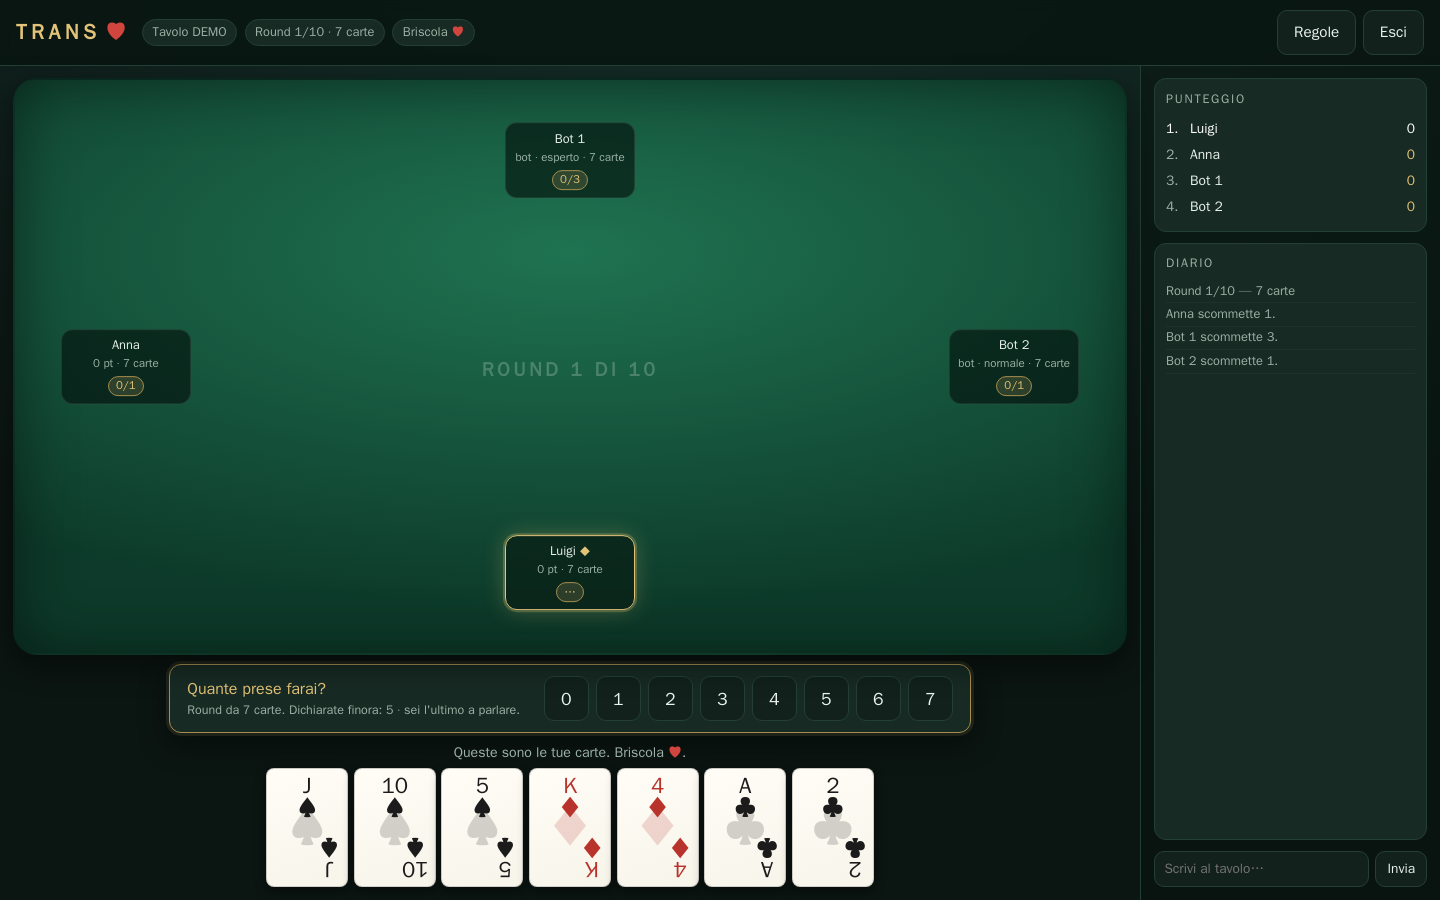
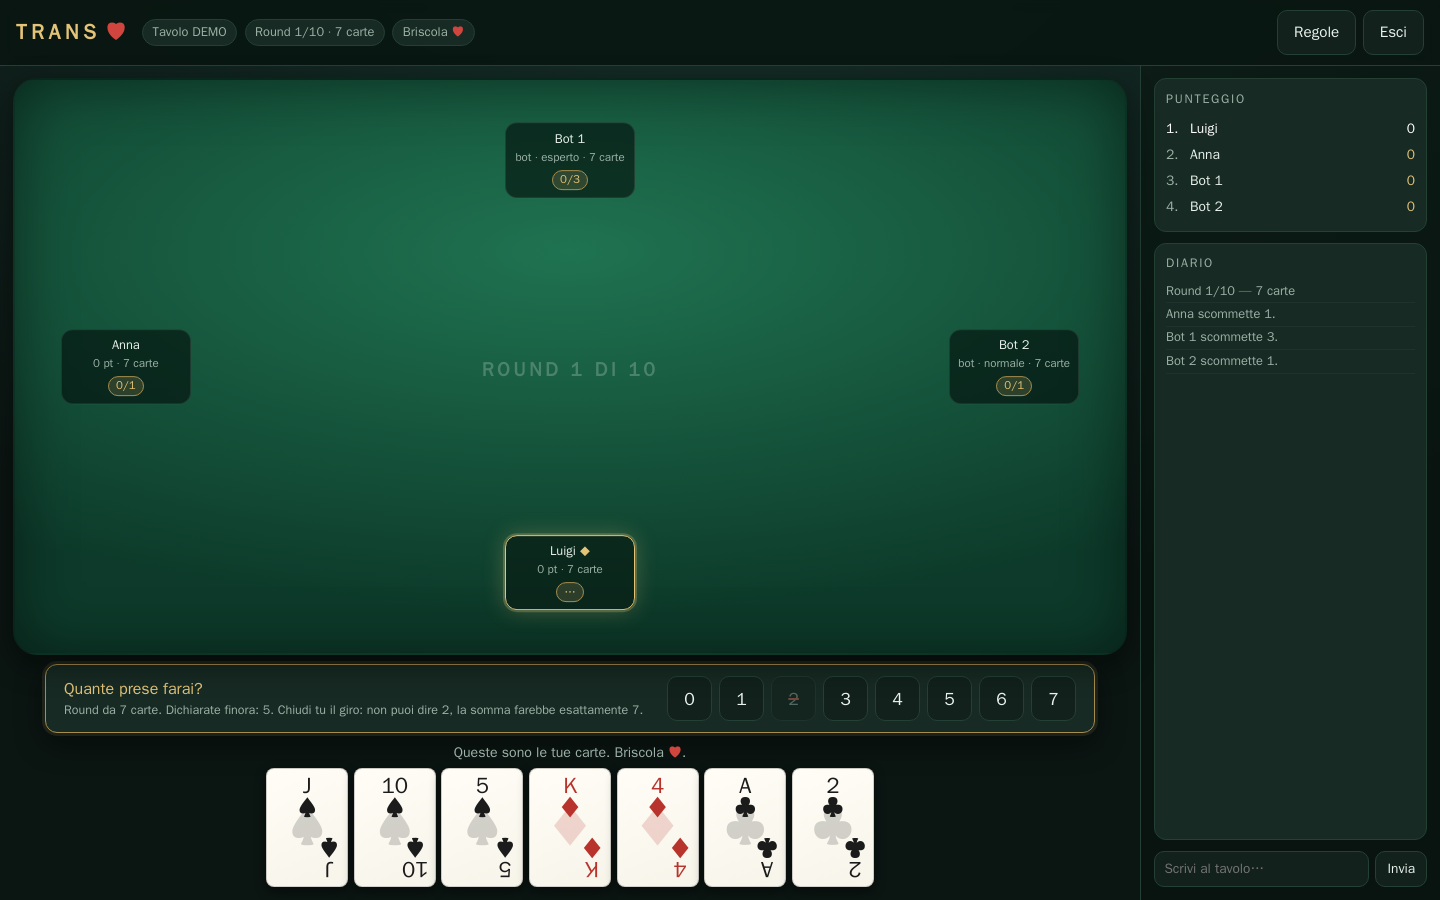
Regola dell'impiccato: il mazziere non puo' pareggiare il conto
La somma delle dichiarazioni non puo' fare esattamente il numero di prese in
palio, quindi chi chiude il giro perde il numero che pareggerebbe. In cinque,
in un round da 5 carte, se i primi quattro dicono 1 il mazziere non puo' dire 1.
Cosi' almeno un giocatore sbaglia per forza a ogni round.

Il vincolo c'era gia' come opzione spenta: ora e' il comportamento normale.
I bot ci passano attraverso _nearest_legal, che prima mancava sul round BUIO.

Nella UI il numero vietato resta visibile barrato, con scritto il perche':
farlo sparire e basta lasciava il giocatore a chiedersi dove fosse finito.

Le medie dei bot nel README sono rifatte con la regola attiva: la percentuale
di dichiarazioni centrate cala perche' il tetto teorico in quattro e' 75%.

Changed region(s): [[0.0312, 0.7467, 0.4375, 0.8089], [0.6562, 0.7467, 0.6875, 0.8089]]

diff --git a/web/app.js b/web/app.js
@@ -410,19 +410,33 @@
         : "Quante prese farai?";
       const declared = g.players.reduce((s, p) => s + (p.bid || 0), 0);
       const missing = g.players.filter((p) => p.bid === null).length - 1;
-      $("bidSub").textContent = g.round.blind
+      const banned = g.forbidden_bid;
+      const context = g.round.blind
         ? `${g.round.cards} carte coperte. Dichiarate finora: ${declared}.`
-        : `Round da ${g.round.cards} carte. Dichiarate finora: ${declared}` +
-          (missing > 0 ? ` · dopo di te mancano ${missing} giocatori.` : " · sei l'ultimo a parlare.");
+        : `Round da ${g.round.cards} carte. Dichiarate finora: ${declared}.`;
+      $("bidSub").textContent = banned === null || banned === undefined
+        ? context + (missing > 0 ? ` Dopo di te mancano ${missing} giocatori.` : "")
+        : `${context} Chiudi tu il giro: non puoi dire ${banned}, la somma farebbe` +
+          ` esattamente ${g.round.cards}.`;
+
+      // Il numero vietato resta visibile, barrato: sparire e basta confonde.
+      const legal = new Set(g.legal_bids);
       const grid = $("bidGrid");
       grid.innerHTML = "";
-      g.legal_bids.forEach((value) => {
+      for (let value = 0; value <= g.round.cards; value++) {
         const btn = document.createElement("button");
         btn.type = "button";
         btn.textContent = value;
-        btn.onclick = () => send({ type: "bid", value });
+        if (legal.has(value)) {
+          btn.onclick = () => send({ type: "bid", value });
+        } else {
+          btn.disabled = true;
+          btn.className = "banned";
+          btn.title = `Con ${value} la somma delle dichiarazioni farebbe esattamente ` +
+                      `${g.round.cards}: non e' permesso.`;
+        }
         grid.appendChild(btn);
-      });
+      }
     }
 
     // Fine round

diff --git a/web/index.html b/web/index.html
@@ -157,7 +157,11 @@
       <p>Chi esce sceglie il seme. <b>Sei obbligato a rispondere a quel seme</b> se ce l'hai; se non ce l'hai giochi quello che vuoi, briscola compresa. Vince la briscola più alta, altrimenti la carta più alta del seme di uscita. Chi prende esce nella presa successiva.</p>
 
       <h3>La scommessa</h3>
-      <p>Prima di giocare, ognuno dichiara quante prese farà.</p>
+      <p>Prima di giocare, ognuno dichiara quante prese farà, partendo da sinistra del mazziere.</p>
+      <p><b>L'ultimo a parlare è il mazziere, e non può pareggiare il conto:</b> la somma delle
+      dichiarazioni non può fare esattamente il numero di prese in palio. In cinque, con un round
+      da 5 carte, se i primi quattro dicono 1 a testa il mazziere non può dire 1. Così almeno
+      un giocatore sbaglia per forza.</p>
       <ul>
         <li><b>Dichiarazione centrata:</b> 10 punti + 5 per ogni presa dichiarata. Dici 0 e fai 0 → <b>10</b>. Dici 1 e fai 1 → <b>15</b>. Dici 2 e fai 2 → <b>20</b>, e così via.</li>
         <li><b>Dichiarazione sbagliata:</b> 1 solo punto per ogni presa fatta.</li>

diff --git a/web/style.css b/web/style.css
@@ -375,8 +375,13 @@ input:focus { outline: 2px solid var(--gold-dim); outline-offset: 1px; }
   background: var(--bg-soft); color: var(--ink);
   transition: transform .1s ease, border-color .15s, color .15s;
 }
-.bid-grid button:hover {
+.bid-grid button:hover:not(:disabled) {
   border-color: var(--gold); color: var(--gold); transform: translateY(-2px);
+}
+.bid-grid button.banned {
+  color: var(--ink-dim); opacity: .45; cursor: not-allowed;
+  text-decoration: line-through; text-decoration-color: var(--bad);
+  text-decoration-thickness: 2px;
 }
 
 .result-table { width: 100%; border-collapse: collapse; margin: .6rem 0 1rem; font-size: .9rem; }

diff --git a/trans/engine.py b/trans/engine.py
@@ -54,7 +54,7 @@ class Game:
         mode: GameMode = GameMode.FAST,
         seed: int | None = None,
         dealer: int = 0,
-        forbid_exact_total: bool = False,
+        forbid_exact_total: bool = True,
     ) -> None:
         if not MIN_PLAYERS <= len(players) <= MAX_PLAYERS:
             raise ValueError(f"servono da {MIN_PLAYERS} a {MAX_PLAYERS} giocatori")
@@ -68,6 +68,8 @@ class Game:
         self.schedule: list[RoundSpec] = build_schedule(mode)
         self.rng = random.Random(seed)
         self.seed = seed
+        # Regola dell'impiccato: l'ultimo a parlare non puo' pareggiare il conto,
+        # cosi' almeno un giocatore sbaglia per forza la dichiarazione.
         self.forbid_exact_total = forbid_exact_total
 
         self.round_index = 0
@@ -143,14 +145,23 @@ class Game:
     def legal_bids(self, player_index: int) -> list[int]:
         if self.phase is not Phase.BIDDING or player_index != self.turn:
             return []
-        options = list(range(self.spec.cards + 1))
-        if self.forbid_exact_total and self._is_last_bidder(player_index):
-            declared = sum(p.bid for p in self.players if p.bid is not None)
-            forbidden = self.spec.cards - declared
-            options = [b for b in options if b != forbidden]
-        return options
+        forbidden = self.forbidden_bid(player_index)
+        return [b for b in range(self.spec.cards + 1) if b != forbidden]
+
+    def forbidden_bid(self, player_index: int) -> int | None:
+        """La dichiarazione vietata all'ultimo a parlare, se ce n'e' una.
+
+        La somma delle dichiarazioni non puo' fare esattamente il numero di
+        prese in palio: chi chiude il giro deve sbilanciare il conto.
+        """
+        if not self.forbid_exact_total or not self._is_last_bidder(player_index):
+            return None
+        declared = sum(p.bid for p in self.players if p.bid is not None)
+        forbidden = self.spec.cards - declared
+        return forbidden if 0 <= forbidden <= self.spec.cards else None
 
     def _is_last_bidder(self, player_index: int) -> bool:
+        """Si parla da sinistra del mazziere, quindi il mazziere chiude."""
         return player_index == self.dealer
 
     def place_bid(self, player_id: str, value: int) -> None:
@@ -159,6 +170,11 @@ class Game:
             raise IllegalMove("non e' il momento di scommettere")
         if idx != self.turn:
             raise IllegalMove("non e' il tuo turno di scommettere")
+        if value == self.forbidden_bid(idx):
+            raise IllegalMove(
+                f"chiudi tu il giro: con {value} la somma farebbe esattamente "
+                f"{self.spec.cards}, e non e' permesso"
+            )
         if value not in self.legal_bids(idx):
             raise IllegalMove(f"scommessa non valida: {value}")
 
@@ -303,11 +319,13 @@ class Game:
         hand: list[str] = []
         legal_cards: list[str] = []
         legal_bids: list[int] = []
+        forbidden_bid: int | None = None
         if viewer is not None:
             if self.hand_visible_to_owner():
                 hand = [c.code for c in sort_hand(self.players[viewer].hand)]
             legal_cards = [c.code for c in self.legal_cards(viewer)]
             legal_bids = self.legal_bids(viewer)
+            forbidden_bid = self.forbidden_bid(viewer)
 
         return {
             "phase": self.phase.value,
@@ -329,6 +347,7 @@ class Game:
             "hand_hidden": viewer is not None and not self.hand_visible_to_owner(),
             "legal_cards": legal_cards,
             "legal_bids": legal_bids,
+            "forbidden_bid": forbidden_bid,
             "trick": [{"player": i, "card": c.code} for i, c in self.current_trick],
             "lead_suit": self.lead_suit.value if self.lead_suit else None,
             "played": [c.code for c in self.played_cards],

diff --git a/tests/test_engine.py b/tests/test_engine.py
@@ -87,15 +87,67 @@ def test_play_is_blocked_until_everyone_has_bid():
     assert game.current_actor() == 1
 
 
-def test_optional_hook_rule_forbids_the_bid_that_makes_the_total_exact():
-    game = make_game(n=3, forbid_exact_total=True)
-    bid_all(game, [3, 2])  # p1 e p2, restano 2 prese
-    assert game.current_actor() == 0  # il mazziere chiude
+def test_the_last_bidder_cannot_make_the_total_exact():
+    game = make_game(n=3)
+    bid_all(game, [3, 2])  # p1 e p2, restano 2 prese sulle 7
+    assert game.current_actor() == 0  # il mazziere chiude il giro
+    assert game.forbidden_bid(0) == 2
     assert 2 not in game.legal_bids(0)
-    with pytest.raises(IllegalMove):
+    with pytest.raises(IllegalMove, match="somma"):
         game.place_bid("p0", 2)
     game.place_bid("p0", 1)
     assert game.phase is Phase.PLAYING
+
+
+def test_five_players_one_trick_each_leaves_the_last_one_stuck():
+    """Il caso raccontato dall'utente: in cinque, con un round da 5 carte."""
+    game = make_game(n=5)
+    while game.spec.cards != 5:
+        finish_round_with_bots(game)
+        game.advance_round()
+    bid_all(game, [1, 1, 1, 1])  # i primi quattro dicono 1: siamo a 4 su 5
+    assert game.forbidden_bid(game.dealer) == 1
+    assert game.legal_bids(game.dealer) == [0, 2, 3, 4, 5]
+    with pytest.raises(IllegalMove):
+        game.place_bid(game.players[game.dealer].id, 1)
+
+
+def test_the_rule_binds_only_whoever_speaks_last():
+    game = make_game(n=4)
+    for i in range(4):
+        # il mazziere e' p0, quindi parla per ultimo
+        assert (game.forbidden_bid(i) is not None) == (i == game.dealer)
+
+
+def test_no_forbidden_bid_when_the_total_is_already_impossible():
+    game = make_game(n=3)
+    bid_all(game, [7, 3])  # gia' 10 dichiarate su 7: nessun numero pareggia
+    assert game.forbidden_bid(0) is None
+    assert game.legal_bids(0) == [0, 1, 2, 3, 4, 5, 6, 7]
+
+
+def test_the_declared_total_never_matches_the_tricks_in_play():
+    """Vale in tutti i round dichiarati, buio compreso."""
+    game = make_game(n=4, mode=GameMode.LONG, seed=3)
+    checked = 0
+    while not game.is_over:
+        if game.phase is Phase.ROUND_OVER:
+            game.advance_round()
+            continue
+        spec = game.spec
+        finish_round_with_bots(game)
+        if spec.has_bidding:
+            assert sum(p.bid for p in game.players) != spec.cards
+            checked += 1
+    assert checked == 18  # 20 round meno i due A PERDERE
+
+
+def test_the_rule_can_be_switched_off():
+    game = make_game(n=3, forbid_exact_total=False)
+    bid_all(game, [3, 2])
+    assert game.forbidden_bid(0) is None
+    game.place_bid("p0", 2)
+    assert sum(p.bid for p in game.players) == 7
 
 
 # ------------------------------------------------------------------- gioco

diff --git a/trans/bots.py b/trans/bots.py
@@ -110,6 +110,18 @@ def estimate_tricks(
     return total / samples
 
 
+def _nearest_legal(game: Game, player_index: int, wanted: float) -> int:
+    """La dichiarazione legale piu' vicina a quella che il bot vorrebbe fare.
+
+    Serve soprattutto all'ultimo a parlare, a cui la regola dell'impiccato
+    toglie proprio il numero che pareggerebbe il conto.
+    """
+    options = game.legal_bids(player_index)
+    if not options:
+        raise RuntimeError("nessuna dichiarazione possibile")
+    return min(options, key=lambda b: (abs(b - wanted), b))
+
+
 def choose_bid(game: Game, player_index: int, rng: random.Random | None = None) -> int:
     rng = rng or random.Random()
     player = game.players[player_index]
@@ -119,12 +131,11 @@ def choose_bid(game: Game, player_index: int, rng: random.Random | None = None) 
     if spec.blind_bidding:
         # Al buio non si vede niente: si punta sulla quota equa, con un filo di varianza.
         fair = spec.cards / game.n
-        guess = int(round(fair + rng.uniform(-0.6, 0.6)))
-        return max(0, min(spec.cards, guess))
+        return _nearest_legal(game, player_index, fair + rng.uniform(-0.6, 0.6))
 
     if level == "facile":
         options = game.legal_bids(player_index)
-        naive = max(0, min(spec.cards, int(round(spec.cards / game.n))))
+        naive = spec.cards / game.n
         pool = [b for b in options if abs(b - naive) <= 1] or options
         return rng.choice(pool)
 
@@ -132,11 +143,7 @@ def choose_bid(game: Game, player_index: int, rng: random.Random | None = None) 
     expected = estimate_tricks(
         player.hand, game.n, game.trump, unseen, _SAMPLES[level], rng
     )
-    bid = int(round(expected))
-    options = game.legal_bids(player_index)
-    if bid not in options:
-        bid = min(options, key=lambda b: (abs(b - expected), b))
-    return bid
+    return _nearest_legal(game, player_index, expected)
 
 
 # ---------------------------------------------------------------------- gioco

diff --git a/README.md b/README.md
@@ -24,7 +24,13 @@ Vince la briscola più alta, altrimenti la carta più alta del seme di uscita.
 Chi prende esce nella presa successiva.
 
 **La dichiarazione.** Prima di giocare ognuno dichiara quante prese farà,
-partendo da sinistra del mazziere.
+partendo da sinistra del mazziere — che quindi parla per ultimo.
+
+**Il mazziere non può pareggiare il conto:** la somma delle dichiarazioni non
+può fare esattamente il numero di prese in palio. In cinque, in un round da 5
+carte, se i primi quattro dicono 1 a testa il mazziere non può dire 1: dovrà
+dire 0, oppure 2 o più. Così almeno un giocatore sbaglia per forza, e chiudere
+il giro diventa la posizione più scomoda del tavolo.
 
 | Esito | Punti |
 |---|---|
@@ -113,15 +119,17 @@ python -m trans.simulate --games 200 --levels esperto normale normale facile
 200 partite · Partita veloce (10 round) · 4 giocatori
 
 giocatore       vittorie   punti medi   scommesse ok
-normale-2             67         72.9          56.8%
-esperto-0             70         72.3          58.3%
-normale-1             59         69.8          55.7%
-facile-3              11         35.9          31.2%
+esperto-0             71         69.7          56.4%
+normale-2             60         67.0          51.3%
+normale-1             63         66.5          53.0%
+facile-3              10         38.8          33.7%
 ```
 
-`facile` sta sotto di quaranta punti a partita, mentre fra `normale` ed `esperto`
-il divario è piccolo: l'esperto centra la dichiarazione un paio di punti percentuali
-più spesso, ma su dieci round il caso delle carte pesa ancora parecchio.
+`facile` sta trenta punti sotto agli altri, mentre fra `normale` ed `esperto` il
+divario resta piccolo: su dieci round il caso delle carte pesa ancora parecchio.
+
+Quel 56% va letto ricordando che il mazziere non può pareggiare il conto: **almeno
+un giocatore per round sbaglia sempre**, quindi in quattro il tetto teorico è 75%.
 
 ---
 
